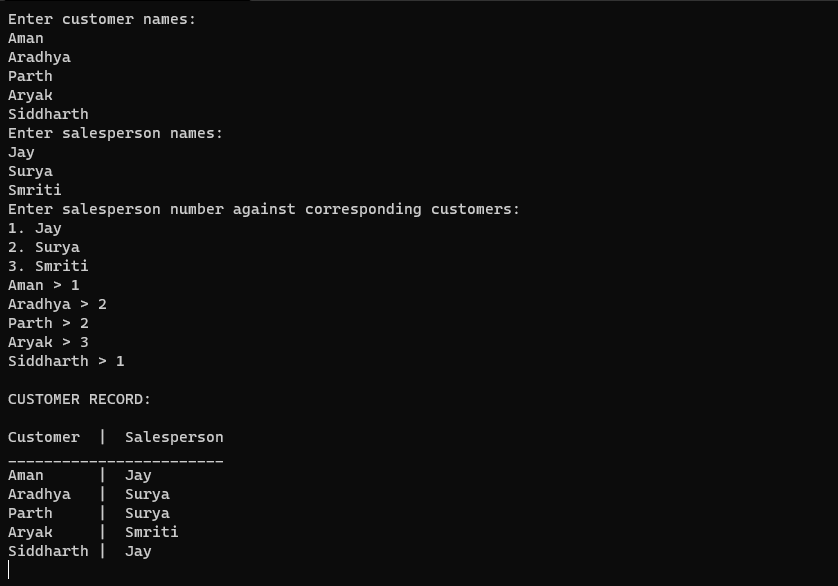
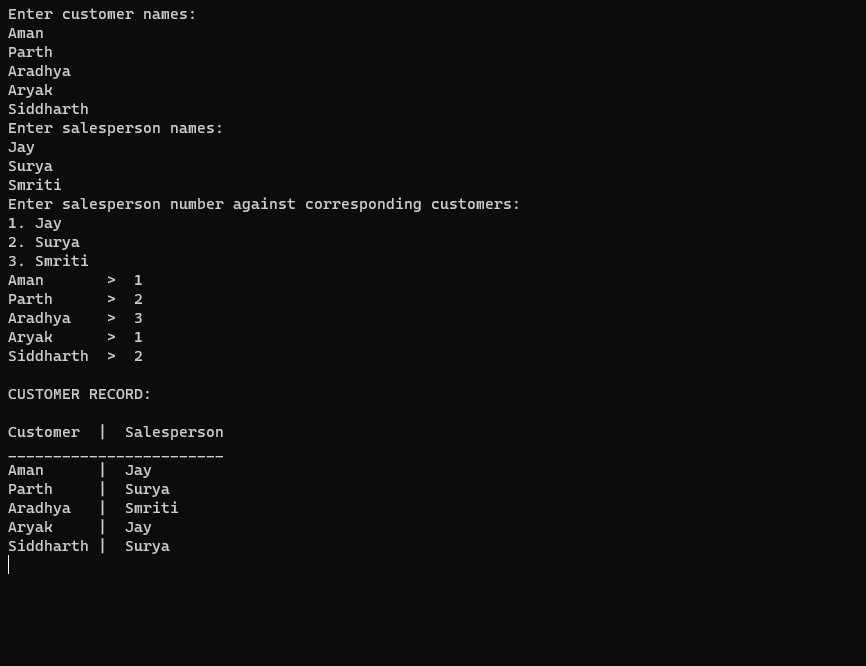
Record of customers in a firm

Changed region(s): [[0.0, 0.0, 0.6205, 0.9522], [0.1551, 0.3993, 0.1862, 0.5529]]

diff --git a/Array of structures/firmRecord.c b/Array of structures/firmRecord.c
@@ -1,38 +1,39 @@
 #include<stdio.h>
 #include<conio.h>
-
+struct customer{
+		char name[20];
+		int *ptr;
+	};
+struct salesperson {
+		char name[20];
+	}; 
 int main()
 {   int i, n;
 	char na[4]="N/A";
-	struct customer{
-		char name[20];
-		int *ptr;
-	} c[5];
-	struct salesperson {
-		char name[20];
-	} s[3];
+	struct customer c[5];
+	struct salesperson s[3];
 	clrscr();
-	printf("Enter customer names: \n");
+	printf("Enter customer names: \n"); //Input customer names in structure array
 	for(i = 0; i < 5; i++)
 		gets(c[i].name);
 
-	printf("Enter salesperson names: \n");
+	printf("Enter salesperson names: \n"); //Input salesperon names in structure array
 	for(i = 0; i < 3; i++)
 		gets(s[i].name);
-	printf("Enter salesperson number against corresponding customers:\n");
+	printf("Enter salesperson number against corresponding customers:\n");  //Display salespersons list
 	for(i = 0; i < 3; i++) {
 		printf("%d. ", i+1);
 		puts(s[i].name);
 		//puts("\n");
 	}
-	for(i = 0; i < 5; i++) {
-		printf("%s > ", c[i].name);
+	for(i = 0; i < 5; i++) {	//Assign salespersons to customers
+		printf("%-10s >  ", c[i].name);
 		scanf("%d", &n);
 		if(n >= 1 && n <= 3)
-		c[i].ptr = &(s[n-1].name);
+		c[i].ptr = &(s[n-1].name); //storing salespersons in pointers of customer structure
 		else c[i].ptr = &na;
 	}
-	printf("\nCUSTOMER RECORD: \n\n");
+	printf("\nCUSTOMER RECORD: \n\n"); //Display the record of customer with their corresponding salespersons in tabular manner
 	printf("Customer  |  Salesperson\n________________________\n");
 	for(i = 0; i < 5; i++) {
 		printf("%-10s|  %s\n", c[i].name, c[i].ptr);
